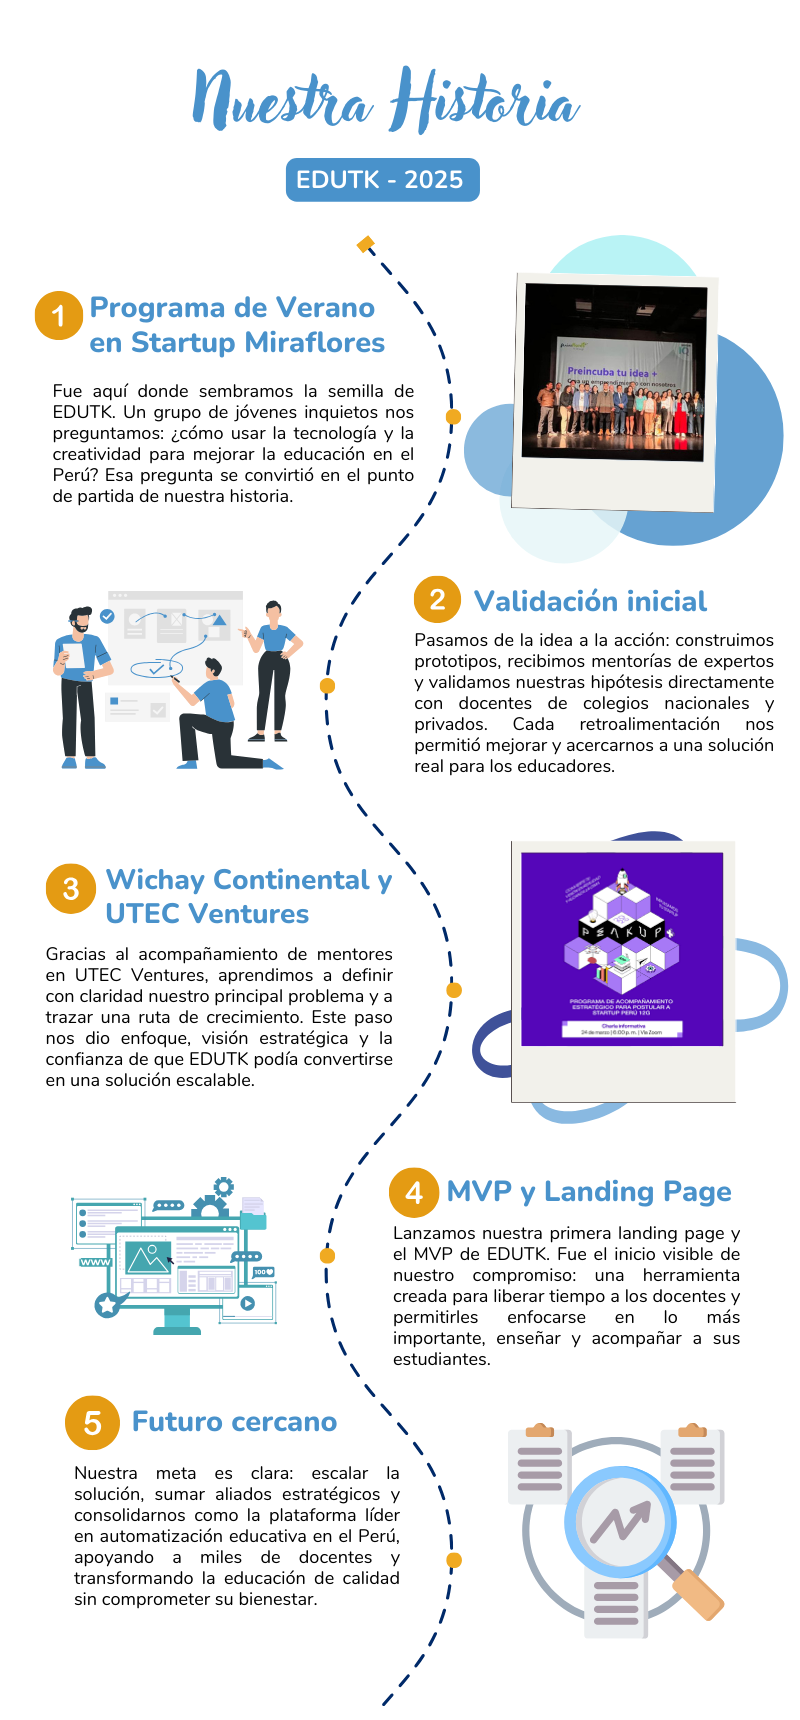
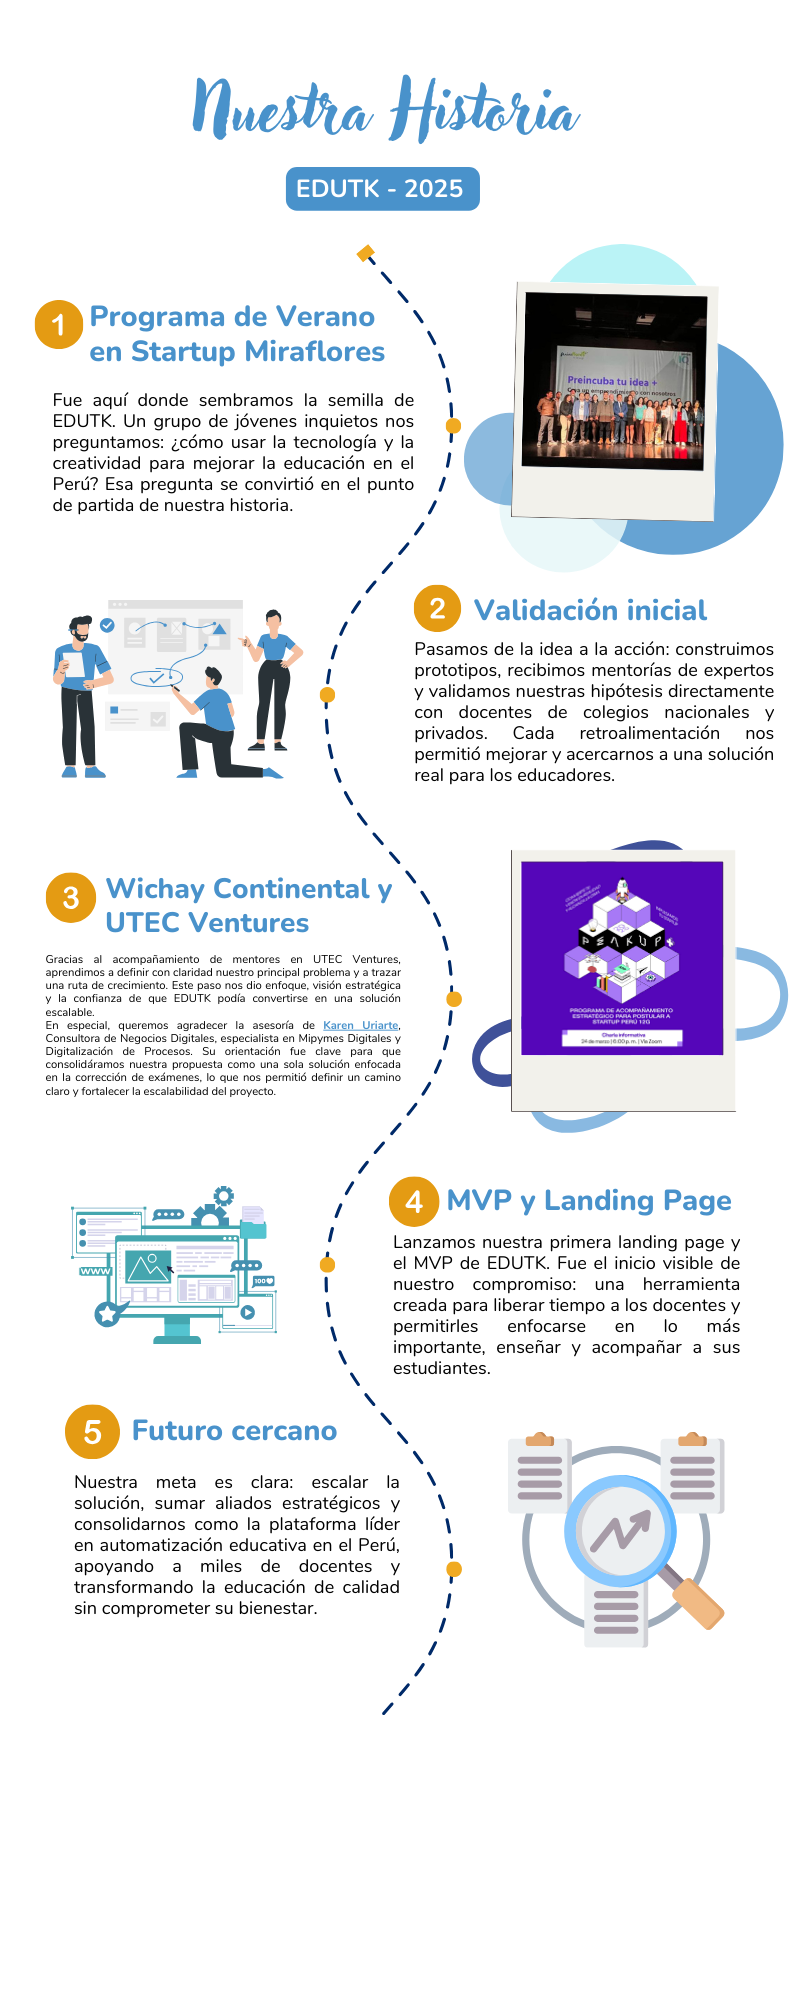
Update edutk

diff --git a/src/pages/examenes.vue b/src/pages/examenes.vue
@@ -36,30 +36,40 @@
         <input v-model="examData.titulo" type="text" placeholder="Título del examen" />
       </div>
 
-      <!-- Preguntas -->
-      <div v-for="(question, index) in examData.preguntas" :key="index">
-        <div>
-          <label :for="'pregunta-' + index">Pregunta {{ index + 1 }}:</label>
-          <input v-model="question.texto" type="text" placeholder="Escribe la pregunta aquí" />
-        </div>
 
-        <!-- Tipo de Pregunta -->
-        <div>
-          <label>Tipo de Pregunta:</label>
-          <select v-model="question.tipo">
-            <option value="rellenar">Rellenar</option>
-            <option value="marcar">Marcar (Opción múltiple)</option>
-          </select>
-        </div>
+<!-- Preguntas -->
+<div v-for="(question, index) in examData.preguntas" :key="index" >
+  <div style="display: flex; justify-content: space-between; align-items: center;">
+    <label :for="'pregunta-' + index">Pregunta {{ index + 1 }}:</label>
+    <!-- Eliminar pregunta -->
+    <button
+      type="button"
+      @click="examData.preguntas.splice(index, 1)"
+      style="background-color: #dc3545; color: white; border: none; border-radius: 5px; padding: 6px 10px; cursor: pointer;"
+      title="Eliminar esta pregunta"
+    >
+      <i class="fas fa-trash"></i>
+    </button>
+  </div>
+
+  <input v-model="question.texto" type="text" placeholder="Escribe la pregunta aquí" style="width: 100%; margin-top: 5px;" />
+
+  <!-- Tipo de Pregunta -->
+  <div style="margin-top: 10px;">
+    <label>Tipo de Pregunta:</label>
+    <select v-model="question.tipo">
+      <option value="rellenar">Rellenar</option>
+      <option value="marcar">Marcar (Opción múltiple)</option>
+    </select>
+  </div>
 
         <!-- Opciones para Marcar -->
-        <div v-if="question.tipo === 'marcar'">
+        <div v-if="question.tipo === 'marcar'" style="margin-top: 10px;">
           <label>Opciones:</label>
           <div
             v-for="(option, $index) in question.opciones"
             :key="$index"
-            class="option-checkbox"
-            style="display: flex; align-items: center; gap: 10px;"
+            style="display: flex; align-items: center; gap: 10px; margin-bottom: 8px;"
           >
             <input
               v-model="question.opciones[$index]"
@@ -67,16 +77,18 @@
               placeholder="Opción"
               style="flex: 1;"
             />
+            <!-- Eliminar opción -->
             <button
               type="button"
-              @click="removeOption(index, $index)"
-              style="background-color: #dc3545; color: white; border: none; border-radius: 5px; padding: 6px 10px; margin-top: -7px;"
+              @click="question.opciones.splice($index, 1)"
+              style="background-color: #dc3545; color: white; border: none; border-radius: 5px; width: 35px; height: 35px; display: flex; align-items: center; justify-content: center; cursor: pointer; margin-top: -13px;"
               title="Eliminar esta opción"
             >
               <i class="fas fa-trash"></i>
             </button>
           </div>
-          <button type="button" @click="addOption(index)">Agregar Opción</button>
+          <!-- Agregar opción -->
+          <button type="button" @click="question.opciones.push('')">Agregar Opción</button>
         </div>
       </div>
 
